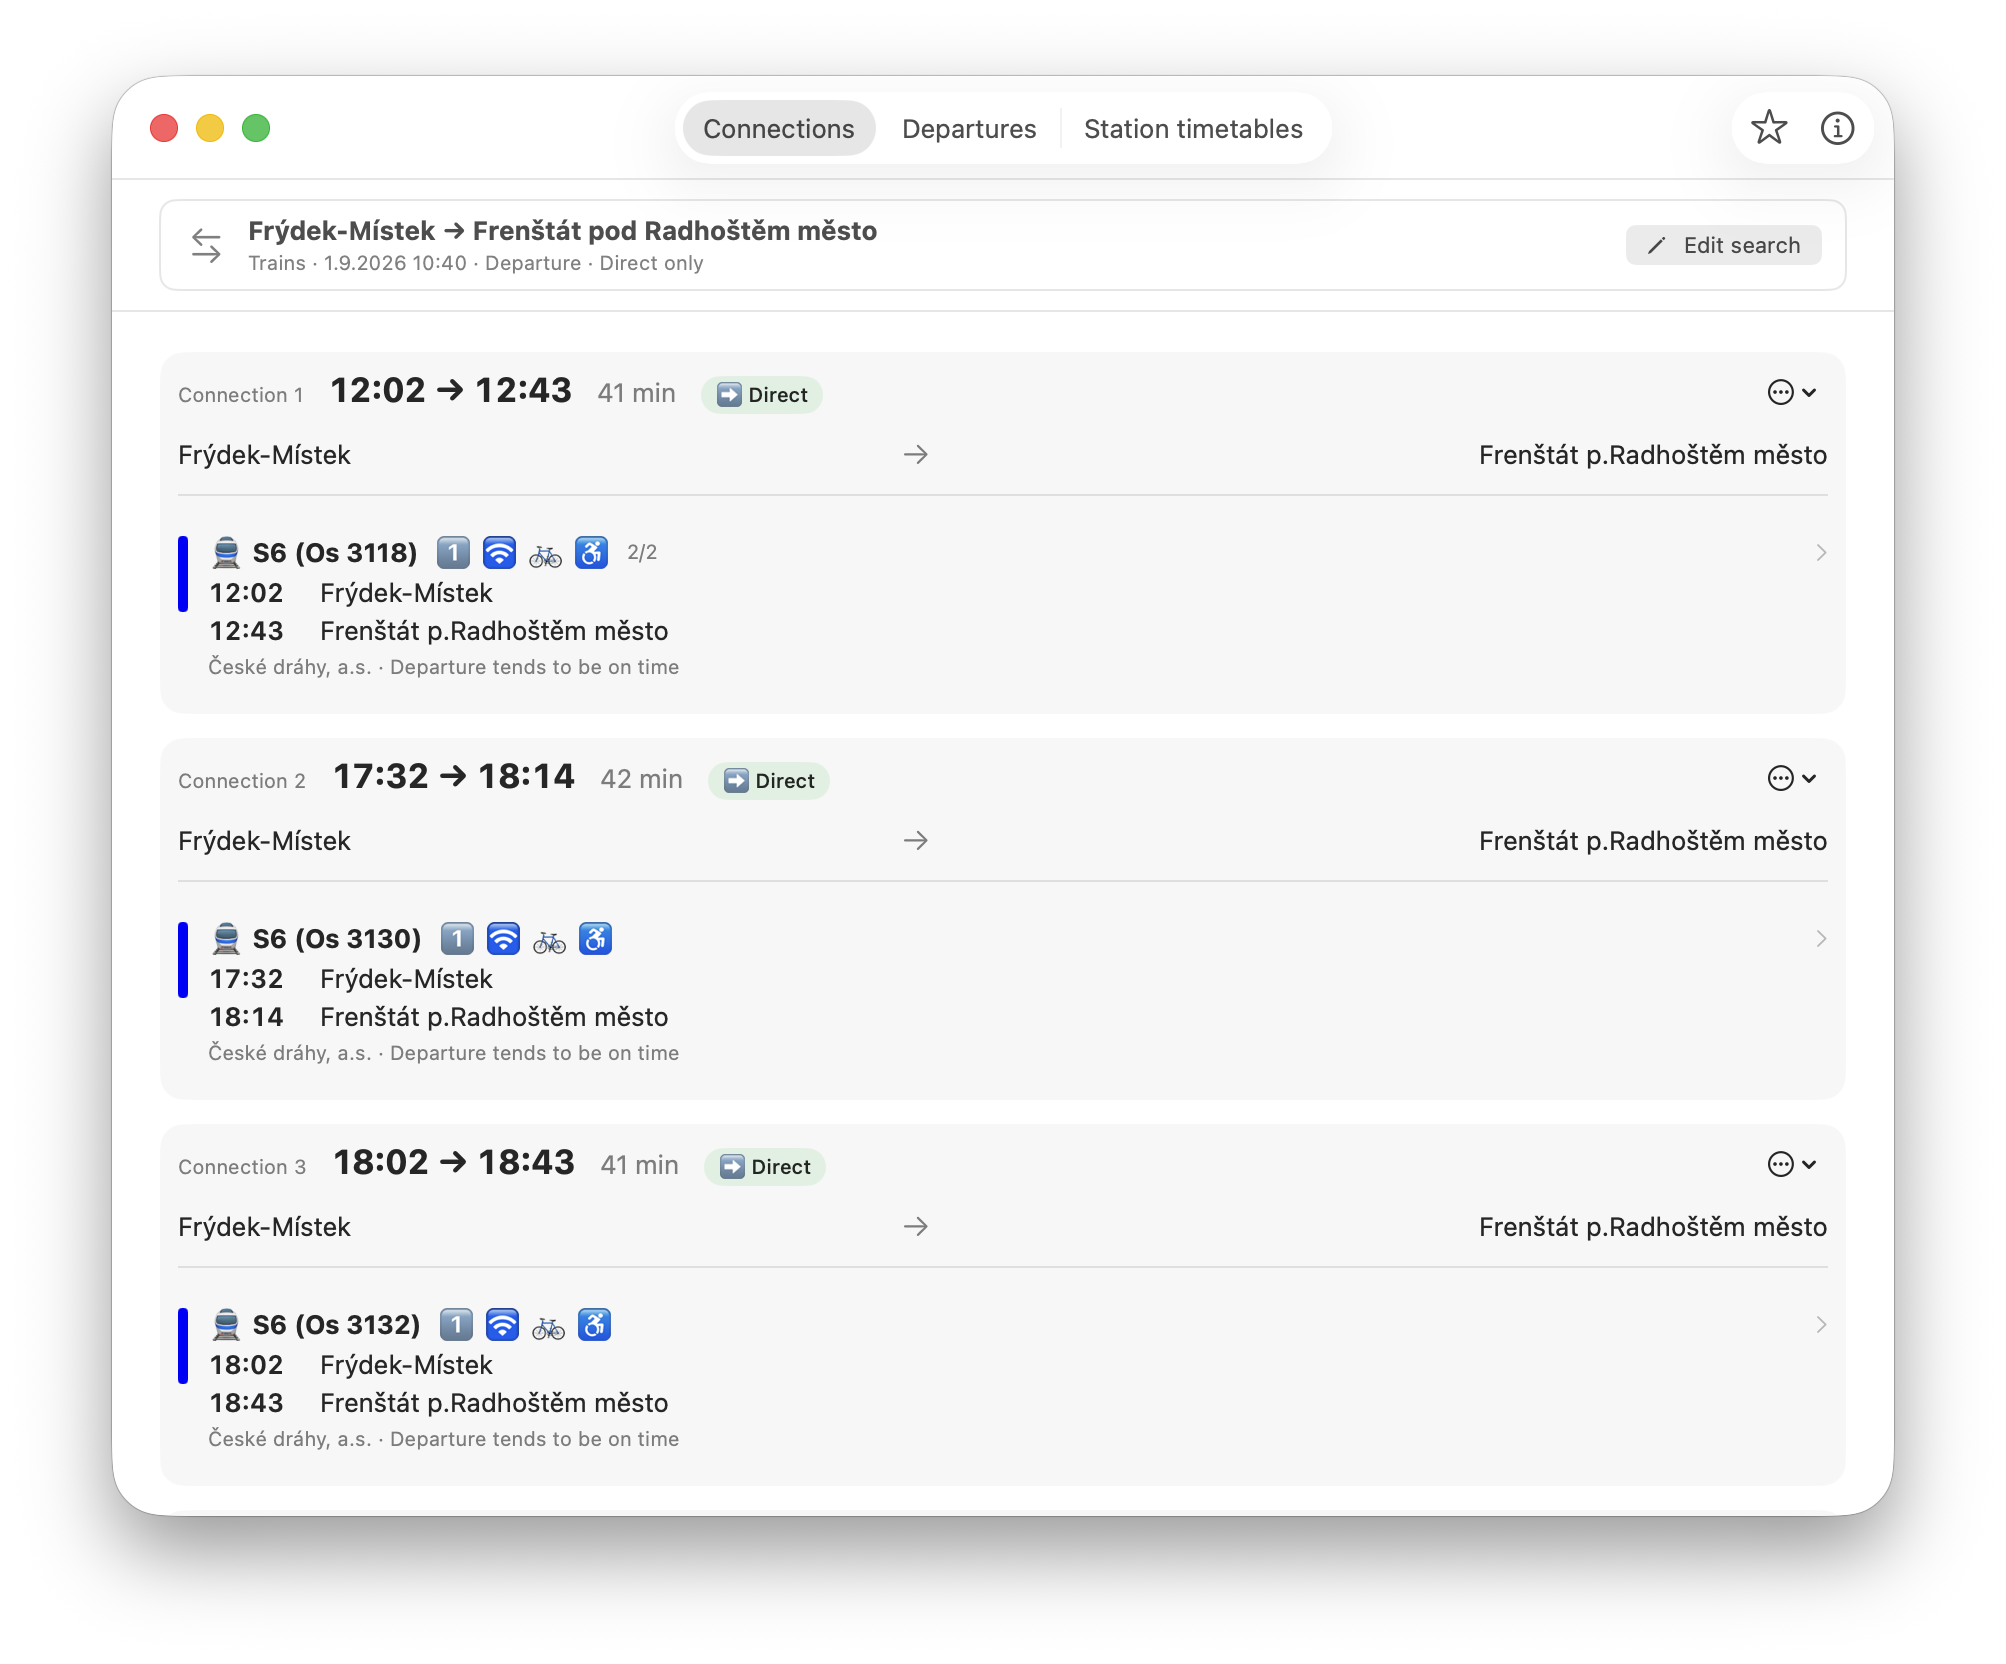
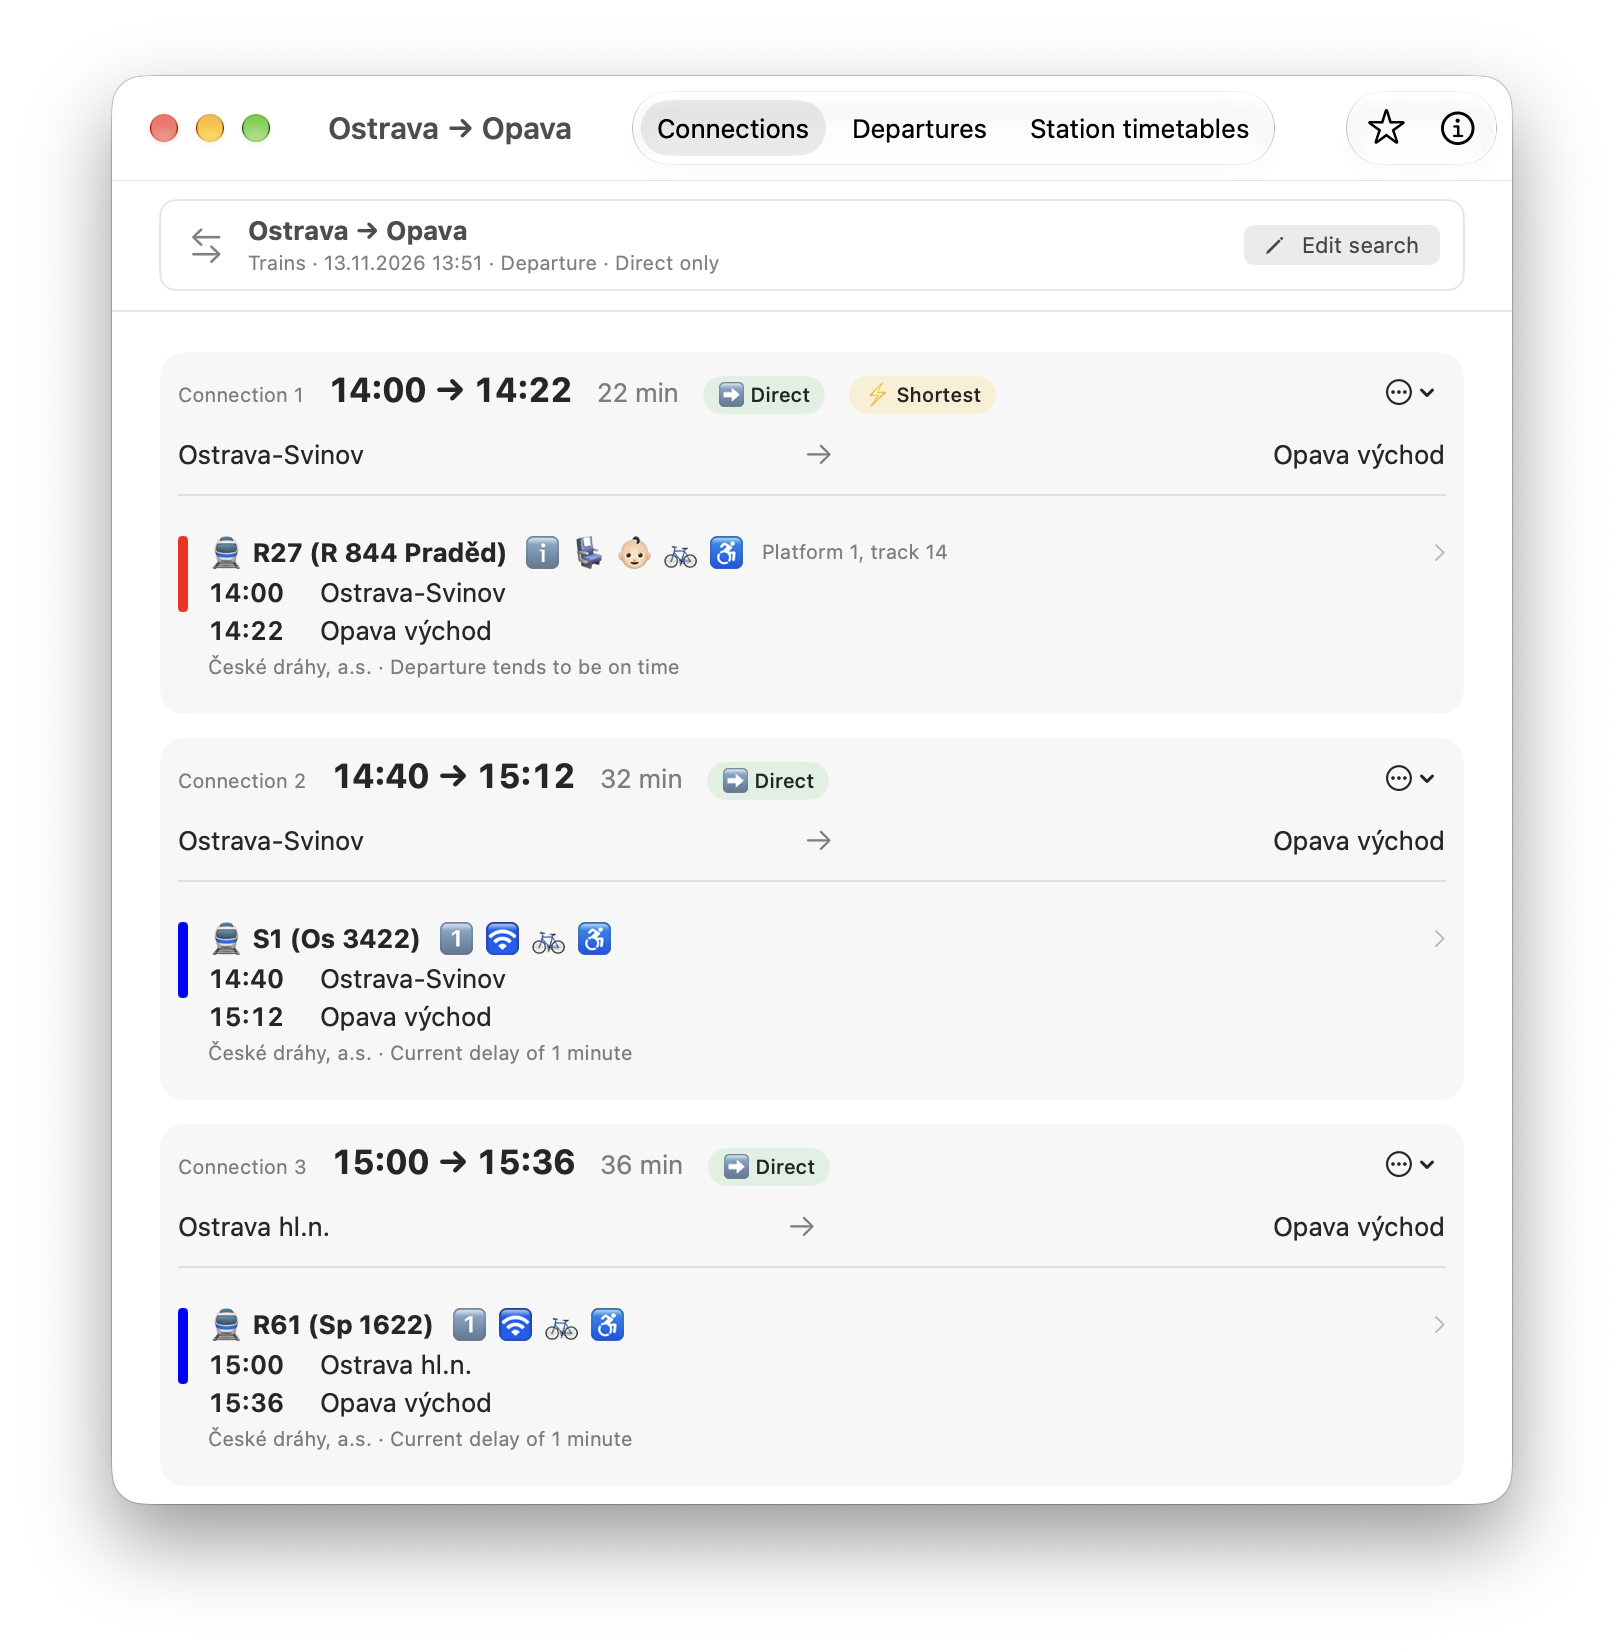
Refresh README screenshot with full platform labels
Show three České dráhy connections from Ostrava to Opava in a narrower window, with complete platform and track wording and no truncated content.

Fixes #7

diff --git a/README.md b/README.md
@@ -7,7 +7,7 @@ can support multiple data sources; [IDOS](https://idos.cz/en/) is currently the 
 a native macOS app or from a terminal, or integrate its search engine as a Swift library or local or remote MCP
 server.
 
-![Kaštan for macOS showing direct train connections from Frýdek-Místek to Frenštát pod Radhoštěm with service-information symbols](docs/images/kastan-macos-connections.png)
+![Kaštan for macOS showing direct train connections from Ostrava to Opava with service symbols and full platform and track labels](docs/images/kastan-macos-connections.png)
 
 Kaštan reads publicly reachable IDOS web pages. It is intended for personal, low-frequency use rather than as
 a stable or guaranteed data API.
